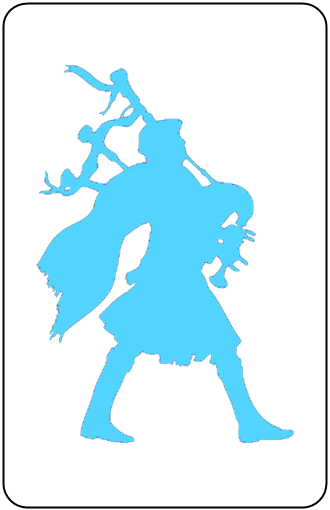
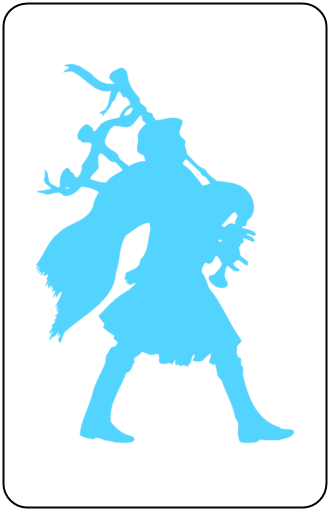
Updated card back image

diff --git a/www/js/views/ViewDealer.js b/www/js/views/ViewDealer.js
@@ -6,7 +6,7 @@ function ViewDealer(x,y) {
 
   this.pile = new CardPile();
 
-  this.hiddenCardSprite = new PIXI.Sprite.fromImage("img/cards/cardBack.jpg");
+  this.hiddenCardSprite = new PIXI.Sprite.fromImage("img/cards/cardBack.png");
   this.hiddenCardSprite.scale = {x:0.25, y: 0.25};
   this.hiddenCardSprite.anchor = {x:0.5, y: 0.5};
   this.hiddenCardSprite.position.x = x;
